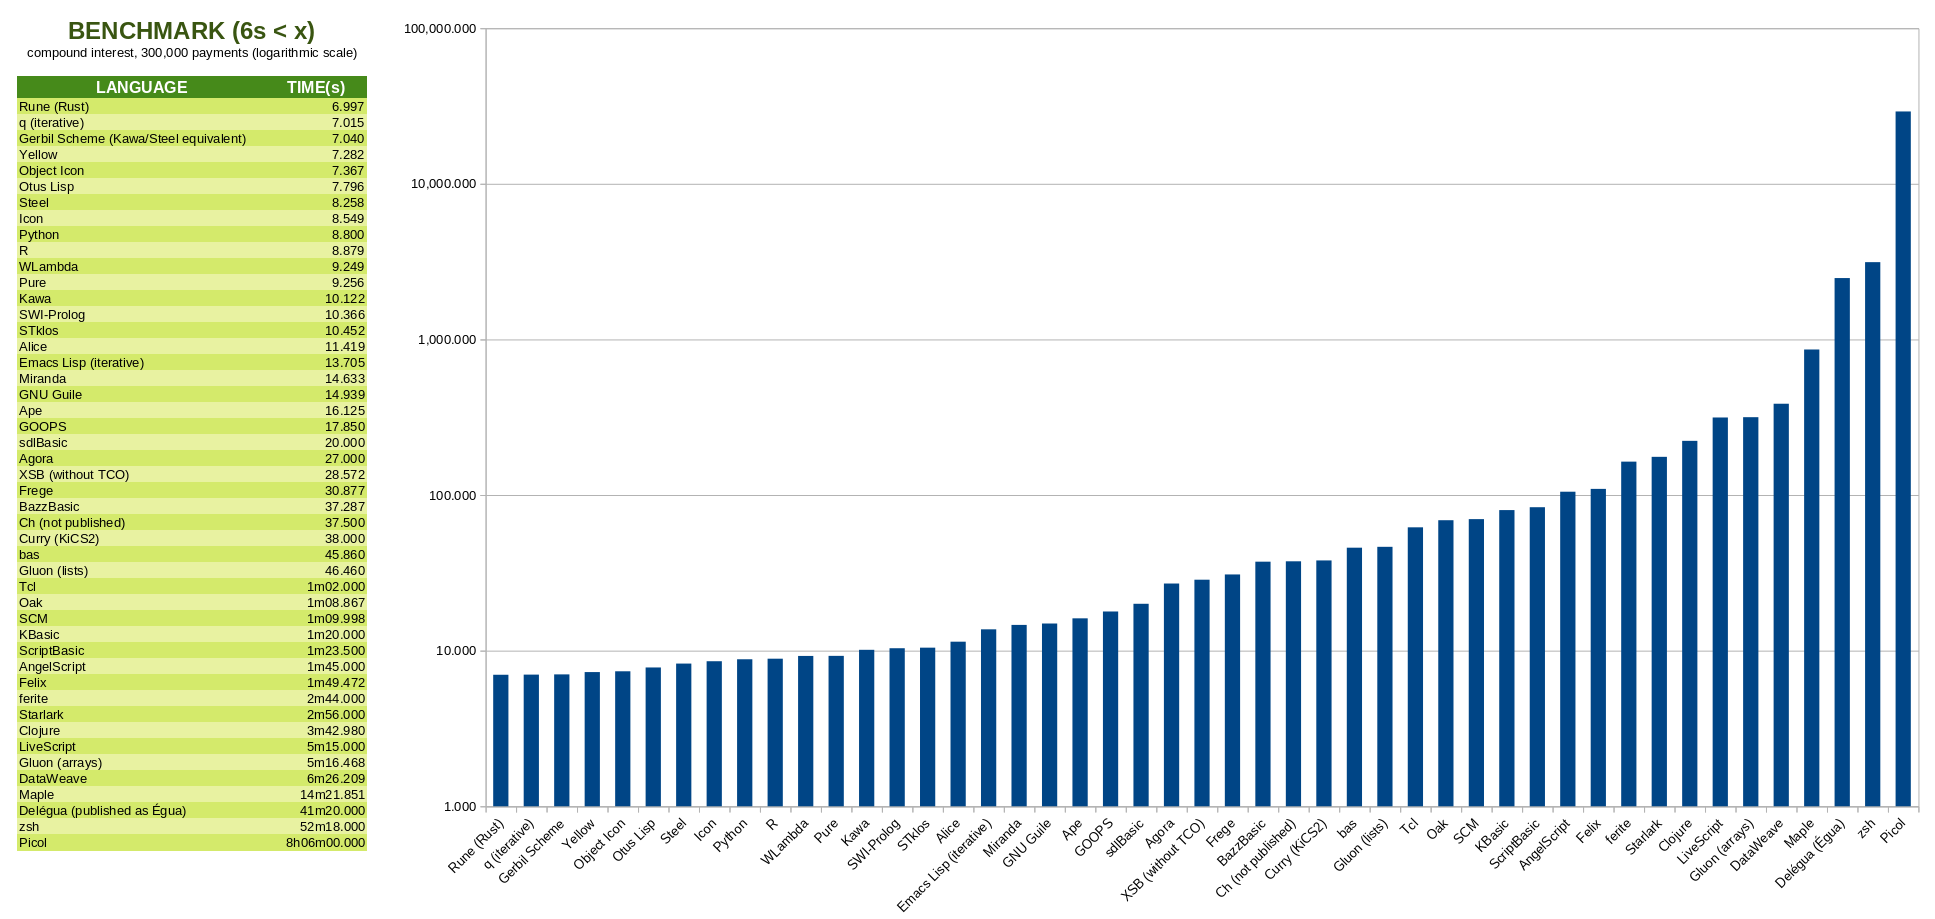
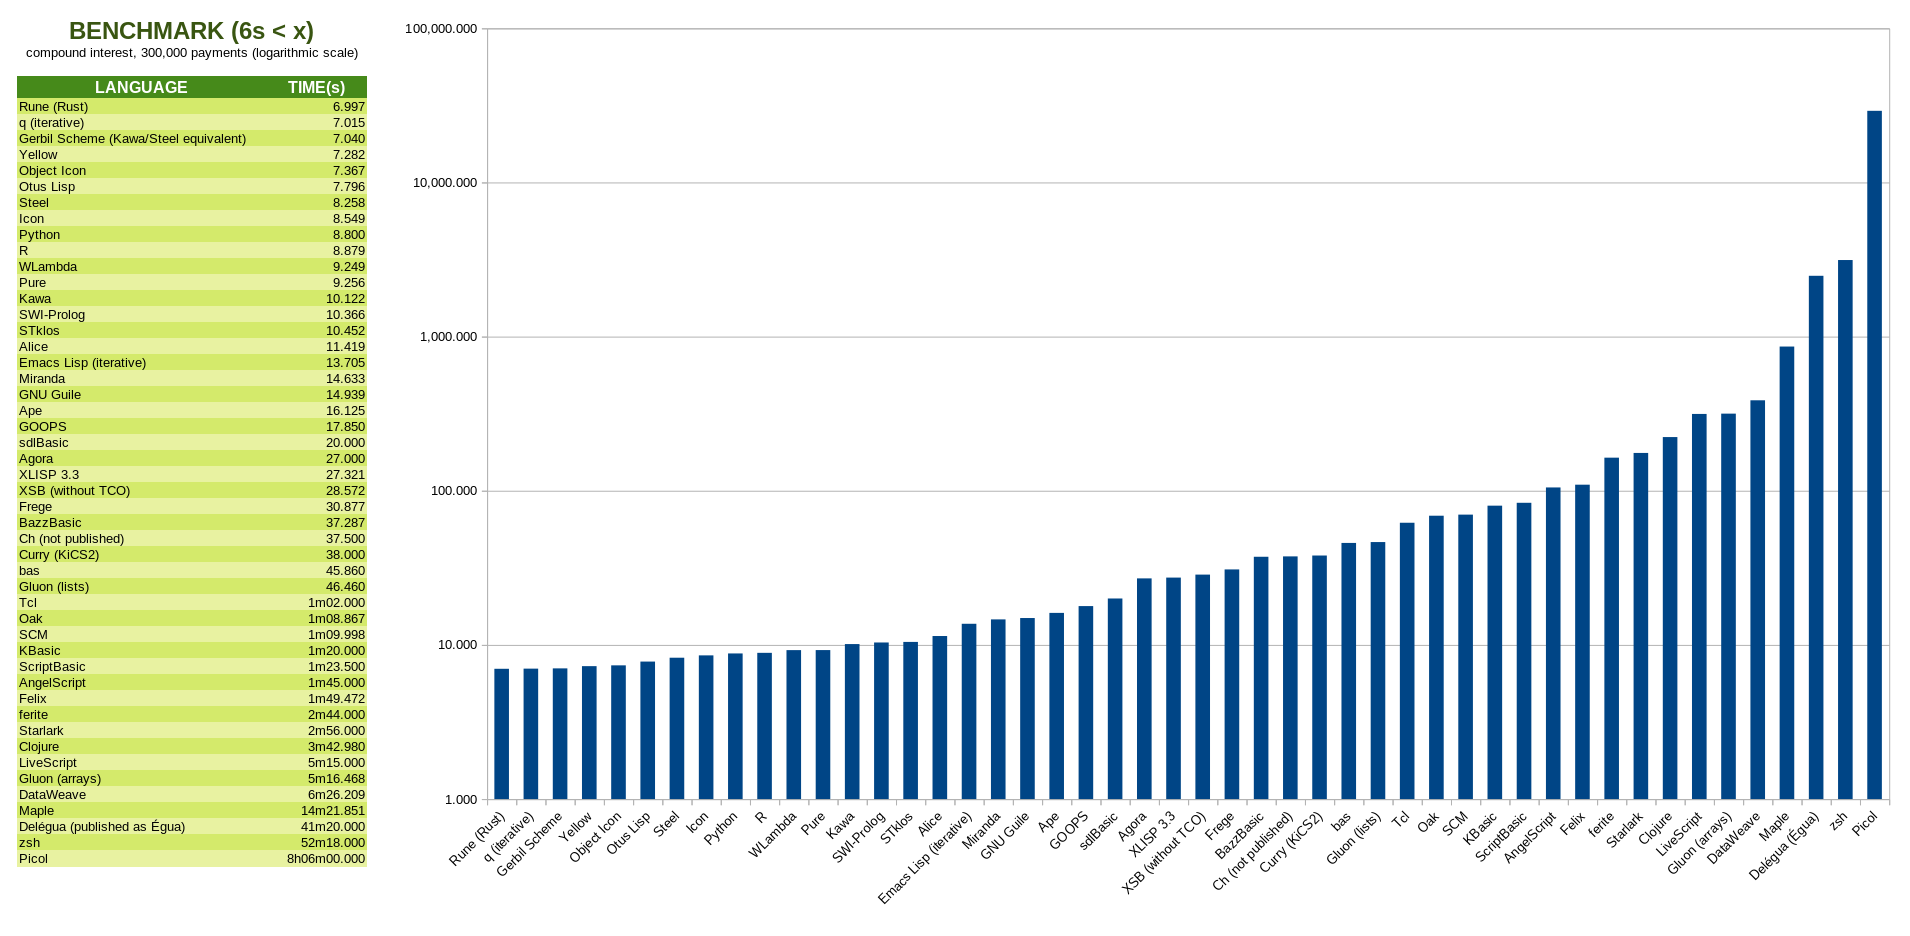
Add files via upload
+ XLISP 3.3

Changed region(s): [[0.0, 0.0, 1.0, 0.975], [0.2162, 0.0, 0.2471, 0.0609]]

diff --git a/SOLUCOES.md b/SOLUCOES.md
@@ -64,7 +64,7 @@ This is a list of links in this repository to solutions in different dialects, o
 
 <br>
 
-# SOLUÇÕES / SOLUTIONS (427)
+# SOLUÇÕES / SOLUTIONS (428)
 
 ### 11l (14/03/2026) 🚀 ✍
 
@@ -1799,6 +1799,10 @@ JavaScript: [juroswww.js](juroswww.js)
 ### XL2 (06/03/2026)
 
 [juros.xl2](juros.xl2)
+
+### XLISP 3.3 (20/11/2026) ♻ ➰
+
+[jurosXLISP.lsp](jurosXLISP.lsp)
 
 ### Xojo (18/02/2025) 🏛 🔧 💖 ✍
 
